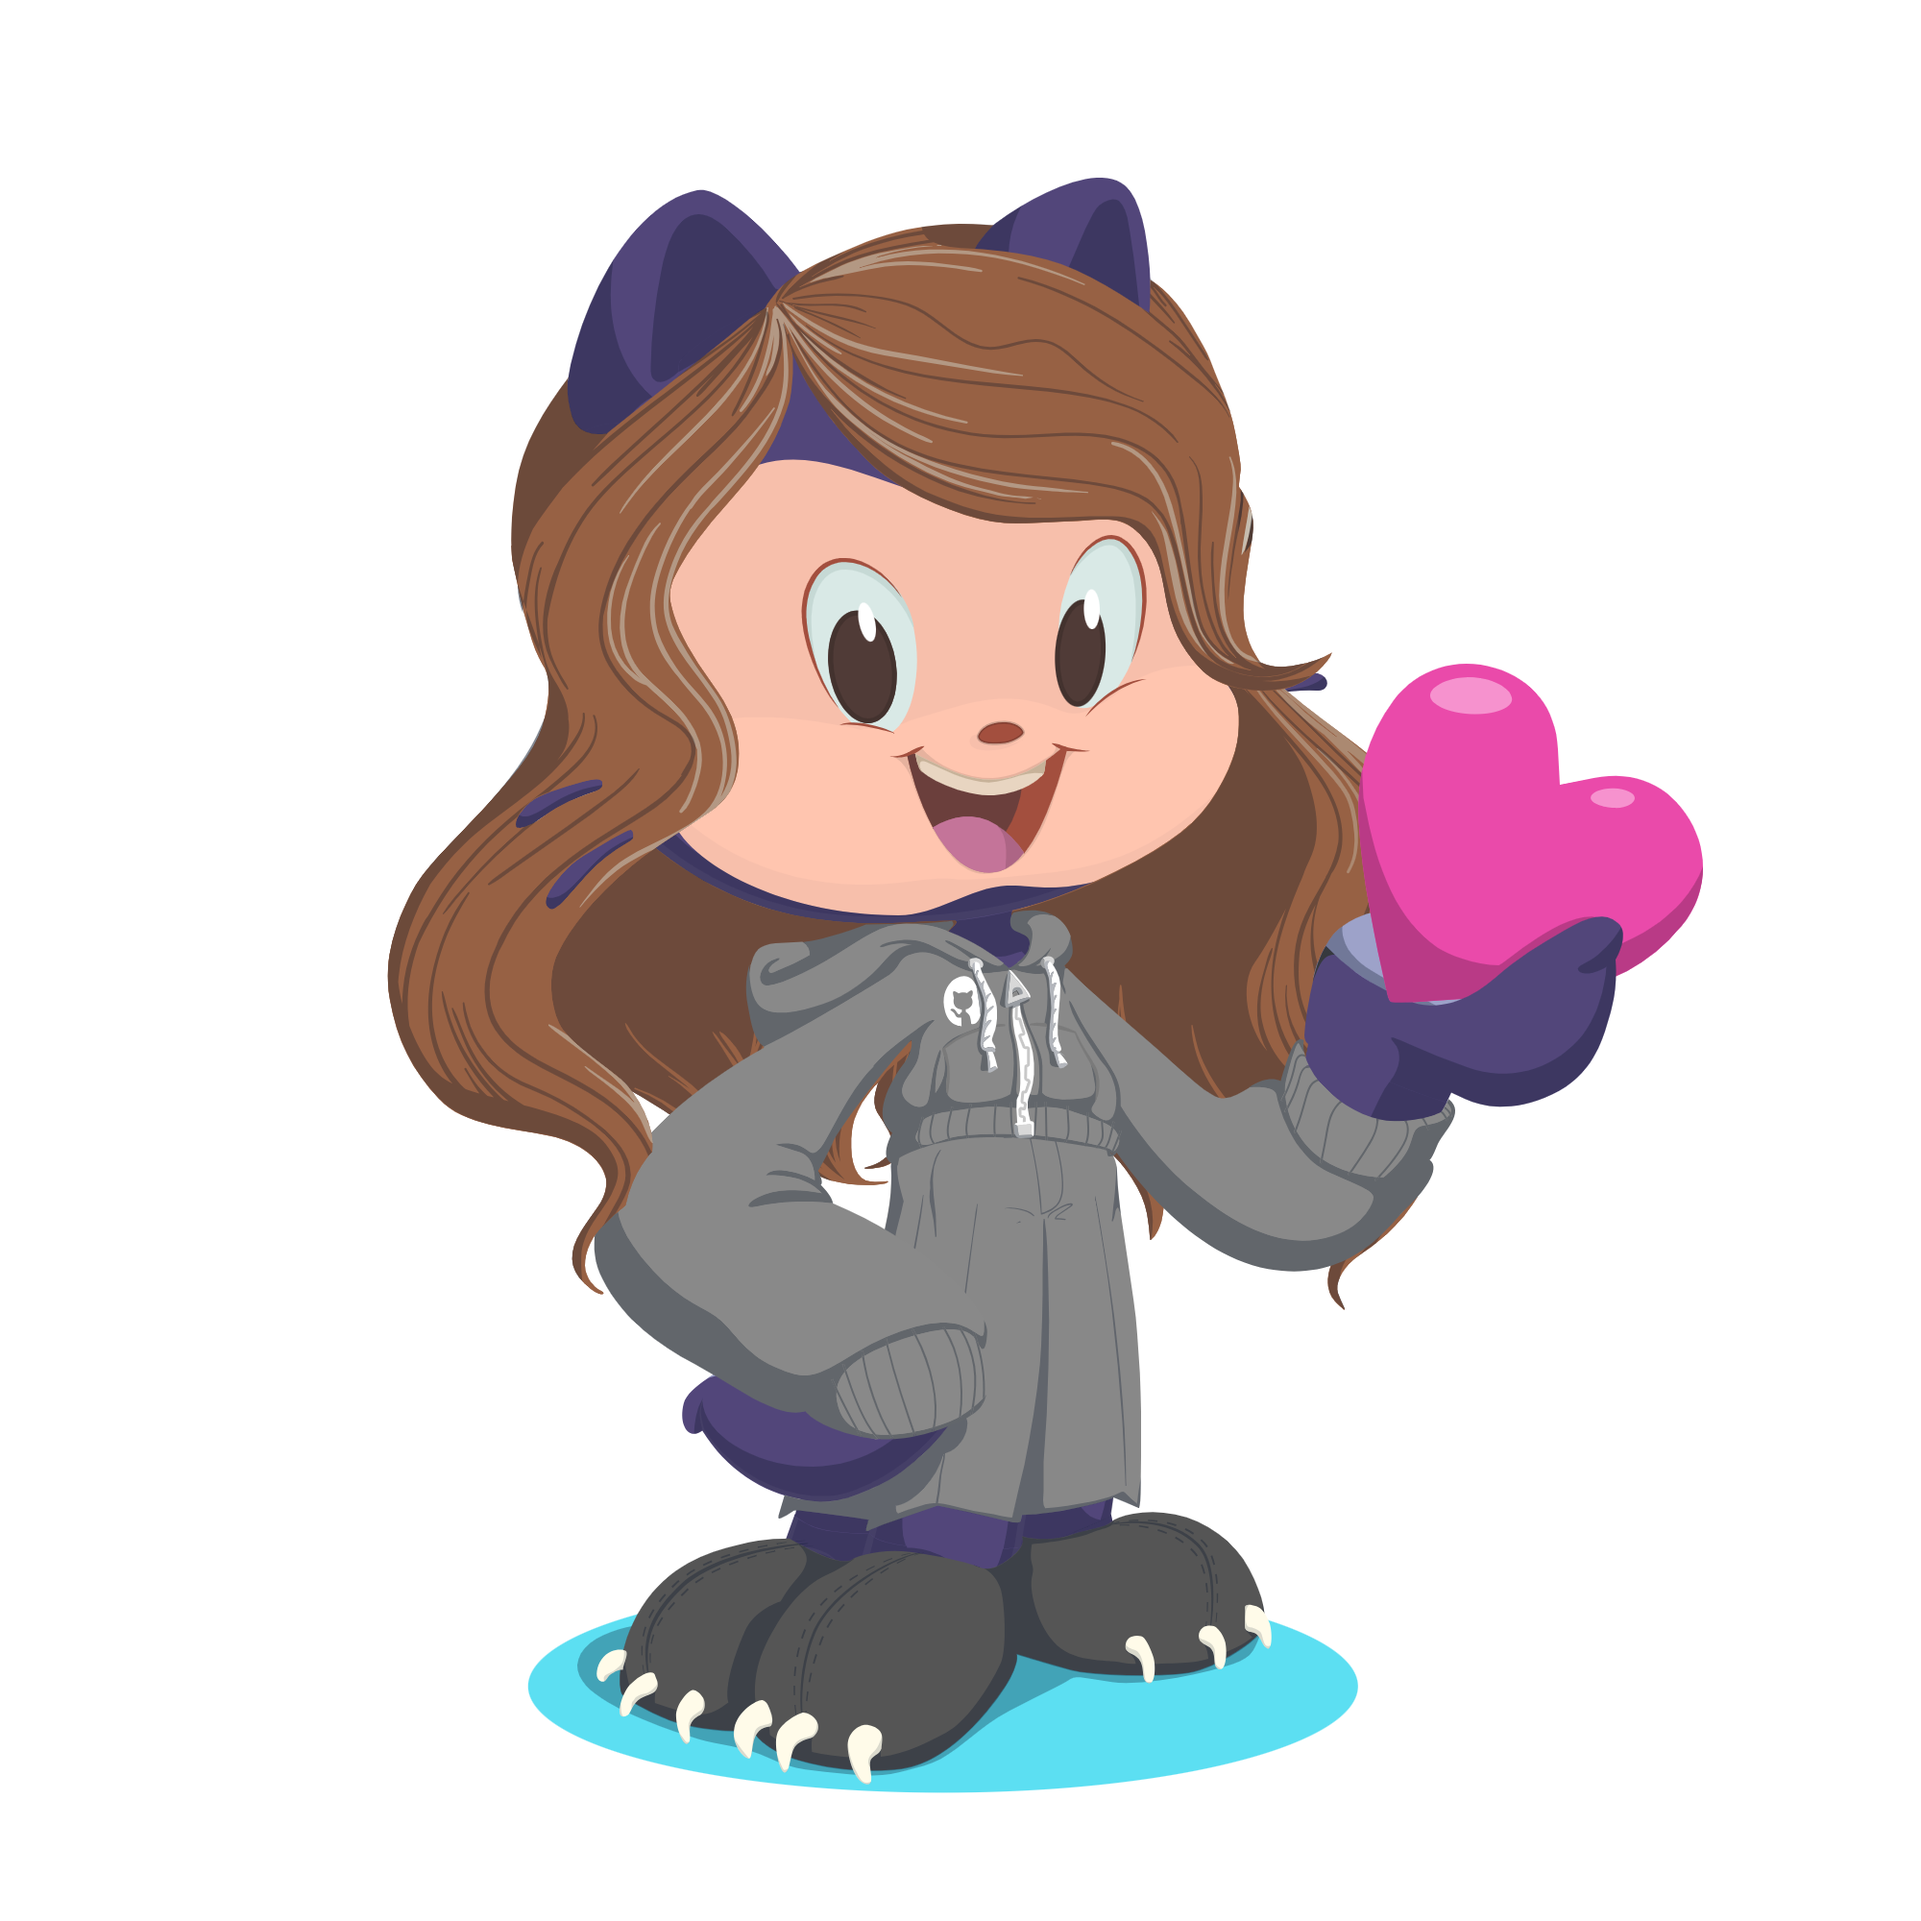
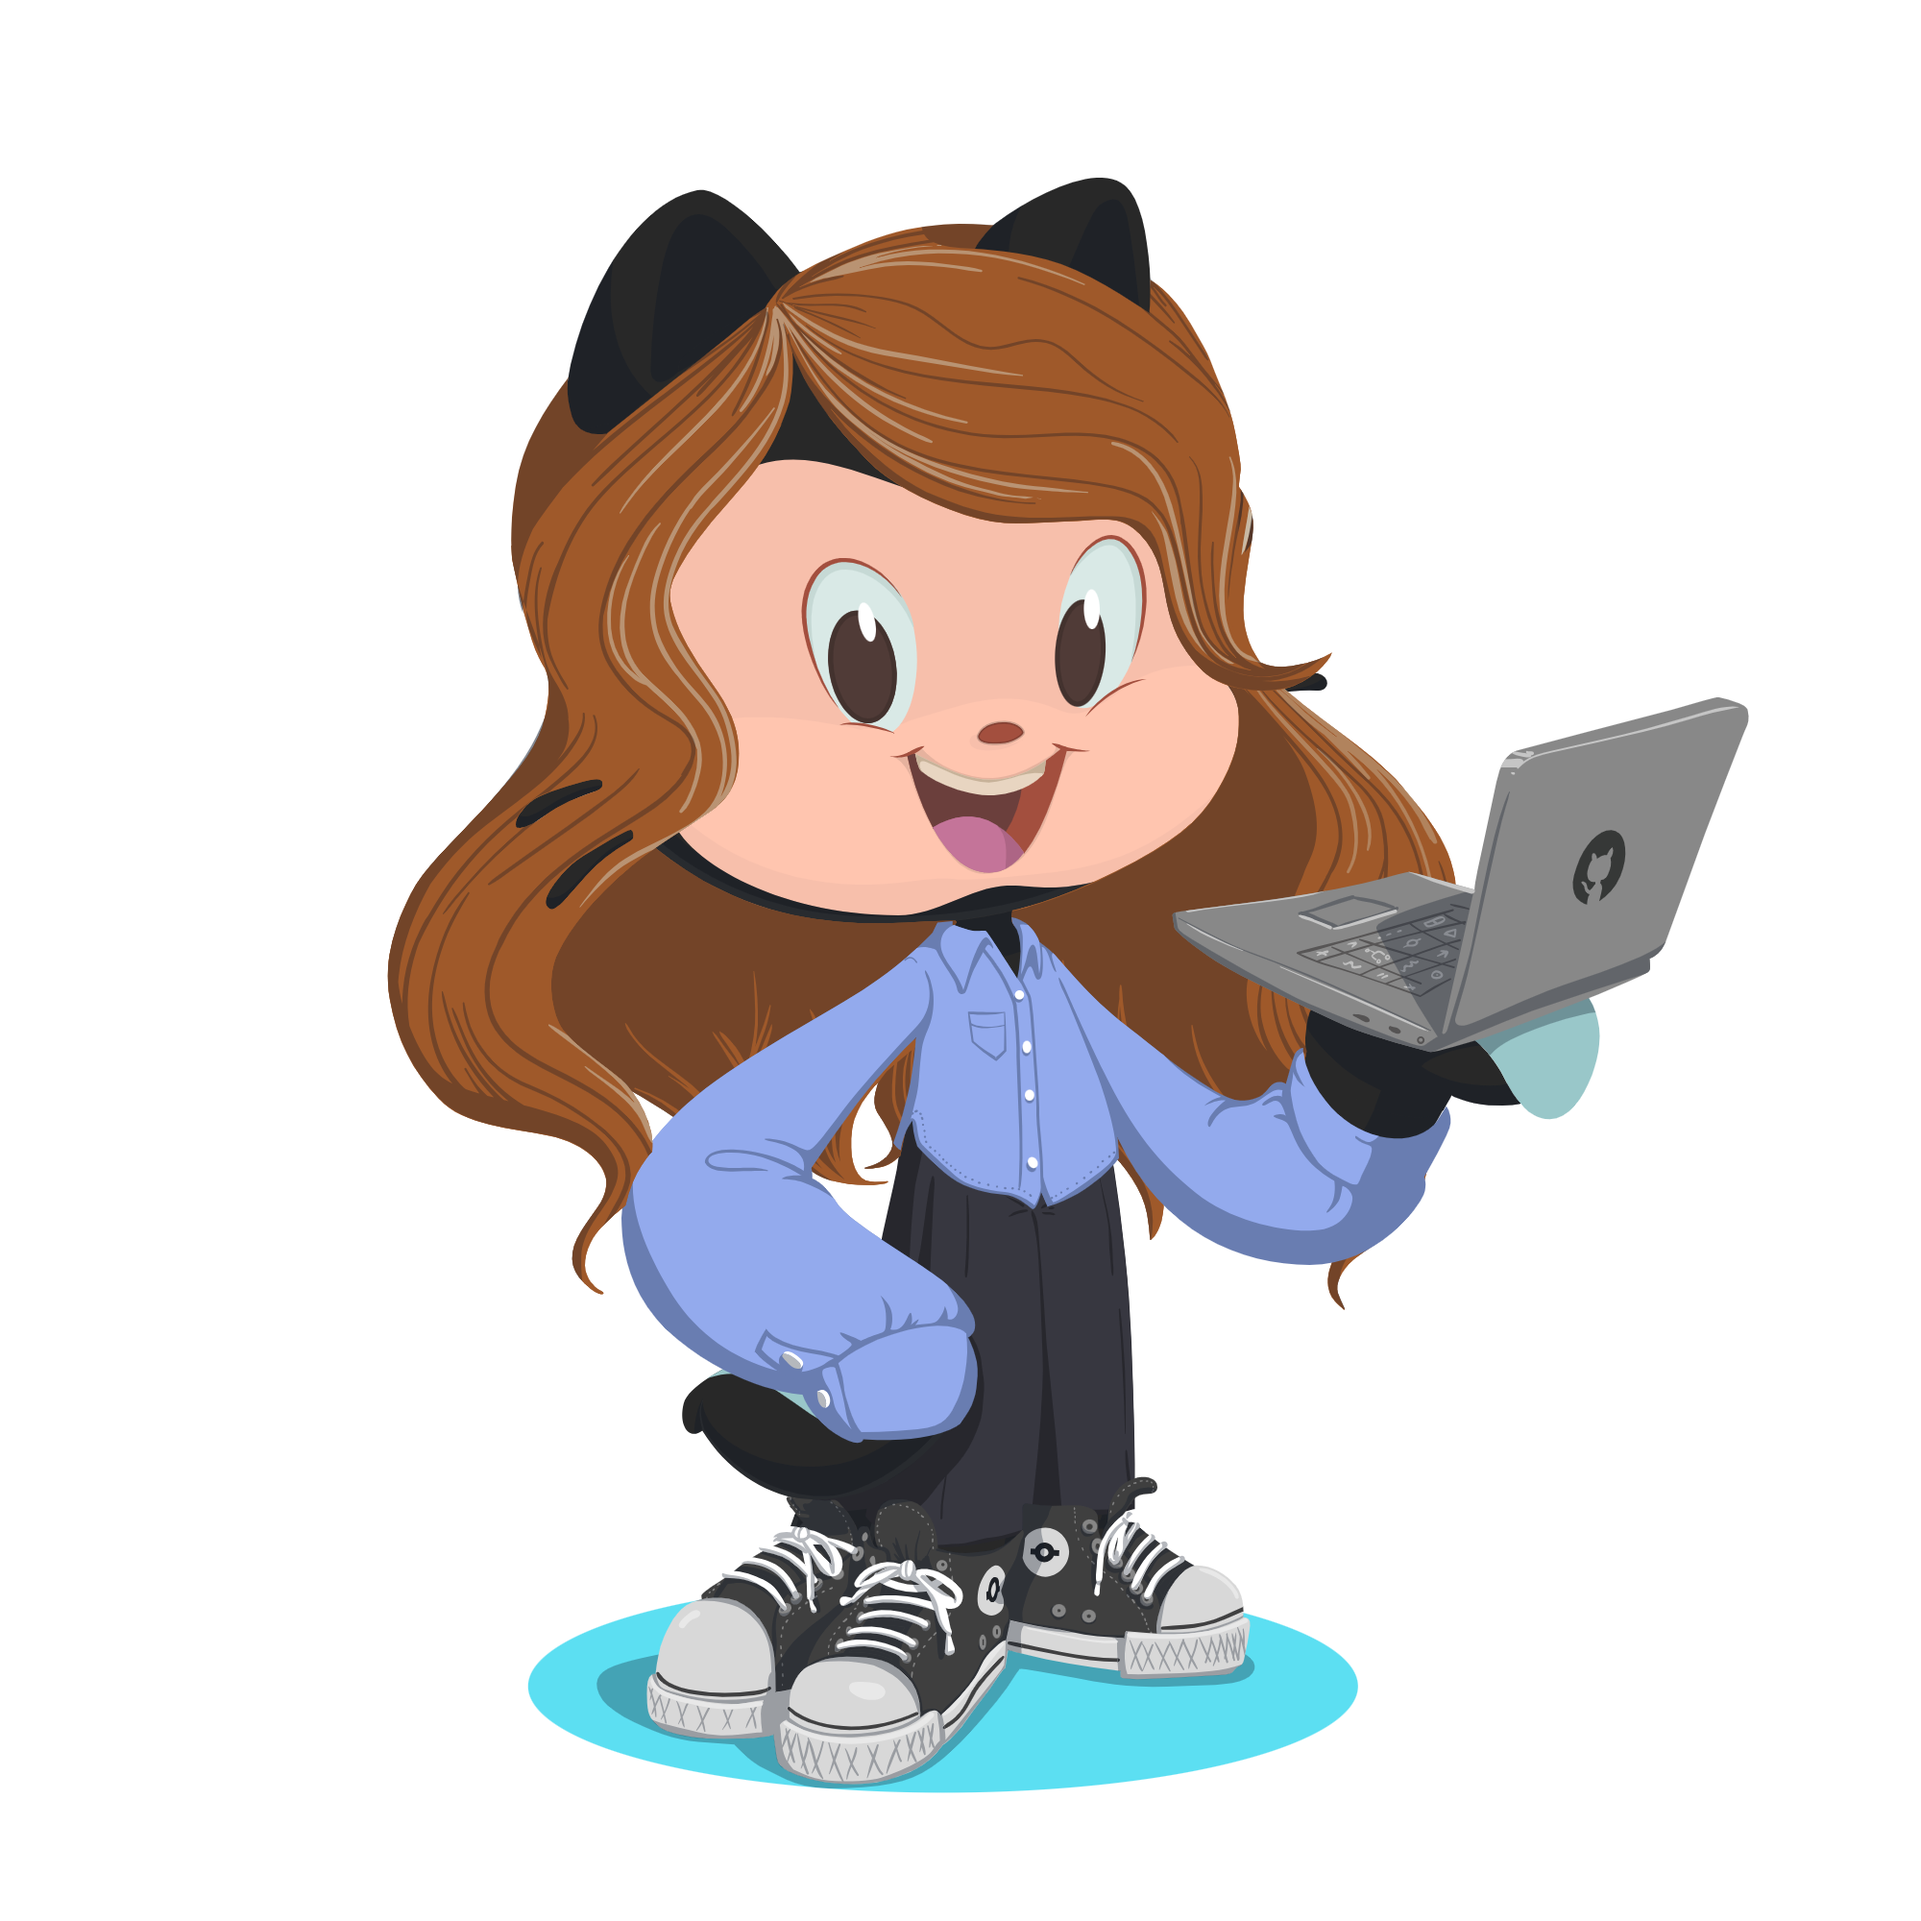
alterado layout

Changed region(s): [[0.186, 0.093, 0.93, 0.93]]

diff --git a/curso1-html-css/style.css b/curso1-html-css/style.css
@@ -1,14 +1,25 @@
 @import url('https://fonts.googleapis.com/css2?family=Krona+One&family=Montserrat:wght@400;600&display=swap');
 
+:root {
+    --cor-primaria: #493628;
+    --cor-secundaria: #E4E0E1; /* f6f6f6 (o 'branco') do design original */
+    --cor-terciaria: #AB886D; /* verde do design original*/
+    --cor-hover: #D6C0B3;
+
+    --font-primaria: "Krona One", sans-serif;
+    --font-secundaria: "Montserrat", sans-serif;
+}
+
 * { 
     margin: 0;
     padding: 0;
 }
+
 body {
     /* height: 100vh; */
     box-sizing: border-box;
-    background-color: black;
-    color: #F6F6F6;
+    background-color: var(--cor-primaria);
+    color: var(--cor-secundaria);
 }
 
 .cabecalho {
@@ -21,19 +32,19 @@ body {
 }
 
 .cabecalho_menu_link {
-    color: #22D4FD;
-    font-family: "Montserrat", sans-serif;
+    color: var(--cor-terciaria);
+    font-family: var(--font-secundaria);
     font-weight: 600;
     text-decoration: none;
     font-size: 24px;
 }
 
 img {
-    width: 260px;
-    height: 260px;
+    width: 340px;
+    height: 340px;
 }
 .titulo-destaque {
-    color:#22D4FD;
+    color:var(--cor-terciaria);
 }
 .apresentacao {
     padding: 5% 15%;
@@ -49,20 +60,20 @@ img {
 }
 .apresentacao_conteudo_titulo {
     font-size: 36px;
-    font-family: "Krona One", sans-serif;
+    font-family: var(--font-primaria);
     font-weight: 400;
     font-style: normal;
 }
 .apresentacao_conteudo_texto {
     font-size: 24px;
-    font-family: "Montserrat", sans-serif;
+    font-family: var(--font-secundaria);
     font-optical-sizing: auto;
     font-weight: 400;
     font-style: normal;
 }
 mark {
-    background-color: black;
-    color: #F6F6F6;
+    background-color: var(--cor-primaria);
+    color: var(--cor-secundaria);
 }
 mark:hover {
     font-size: 25px;
@@ -75,7 +86,7 @@ mark:hover {
     gap: 32px;
 }
 .apresentacao_links_subtitulo {
-    font-family: "Krona One", sans-serif;
+    font-family: var(--font-primaria);
     font-weight: 400;
     font-size: 24px;
 }
@@ -83,19 +94,19 @@ mark:hover {
     display: flex;
     justify-content: center;
     gap: 16px;
-    border: 2px solid #22D4FD;
+    border: 2px solid var(--cor-terciaria);
     width: 378px;
     text-align: center;
     border-radius: 8px;
     font-size: 24px;
     padding: 21.5px 0;
     text-decoration: none;
-    color: #F6F6F6;
-    font-family: "Montserrat", sans-serif;
+    color: var(--cor-secundaria);
+    font-family: var(--font-secundaria);
     font-weight: 600;
 }
 .apresentacao_links_link:hover {
-    background-color: #272727;
+    background-color: var(--cor-hover);
 }
 .logo {
     width: 32px;
@@ -103,10 +114,10 @@ mark:hover {
 }
 .rodape {
     padding: 24px;
-    background-color: #22D4FD;
-    color: black;
+    background-color: var(--cor-terciaria);
+    color: var(--cor-primaria);
     text-align: center;
-    font-family: "Montserrat", sans-serif;
+    font-family: var(--font-secundaria);
     font-weight: 400;
     font-size: 14px;
 }

diff --git a/curso1-html-css/about.html b/curso1-html-css/about.html
@@ -17,13 +17,13 @@
         <section class="apresentacao_conteudo">
             <h1 class="apresentacao_conteudo_titulo">Sobre mim</h1>
             <p class="apresentacao_conteudo_texto">
-                At vero eos et accusamus et iusto odio dignissimos ducimus qui blanditiis praesentium voluptatum deleniti atque corrupti quos dolores et quas molestias excepturi sint occaecati cupiditate non provident, similique sunt in culpa qui officia deserunt mollitia animi, id est laborum et dolorum fuga.
+                Desenvolvedora de software graduada em Análise e Desenvolvimento de Sistemas, com experiência prática no desenvolvimento e evolução de módulos de sistemas ERP customizados. Possuo experiência prática com tecnologias como Java 8+, JavaScript, AngularJS, HTML/CSS e banco de dados relacionais (postgresql, mysql). 
             </p>
             <p class="apresentacao_conteudo_texto">
-                Et harum quidem rerum facilis est et expedita distinctio. Nam libero tempore, cum soluta nobis est eligendi optio cumque nihil impedit quo minus id quod maxime placeat facere possimus, omnis voluptas assumenda est, omnis dolor repellendus. Temporibus autem quibusdam et aut officiis debitis aut rerum necessitatibus saepe eveniet ut et voluptates repudiandae sint et molestiae non recusandae. Itaque earum rerum hic tenetur a sapiente delectus, ut aut reiciendis voluptatibus maiores alias consequatur aut perferendis doloribus asperiores ipsum delis forum birol parela maxime infena. Excepteur sint occaecat cupidatat non.
+                Busco crescer como desenvolvedora, contribuir com qualidade e propósito, e seguir evoluindo como profissional e pessoa.
             </p>
         </section>
-        <img src="./assets/octocat.png" alt="octocat animado segurando um coração">
+        <img src="./assets/octocatCoffee.png" alt="octocat animado segurando um coração">
     </main>
     <footer class="rodape">
         <p>Desenvolvido por Amanda.</p>
